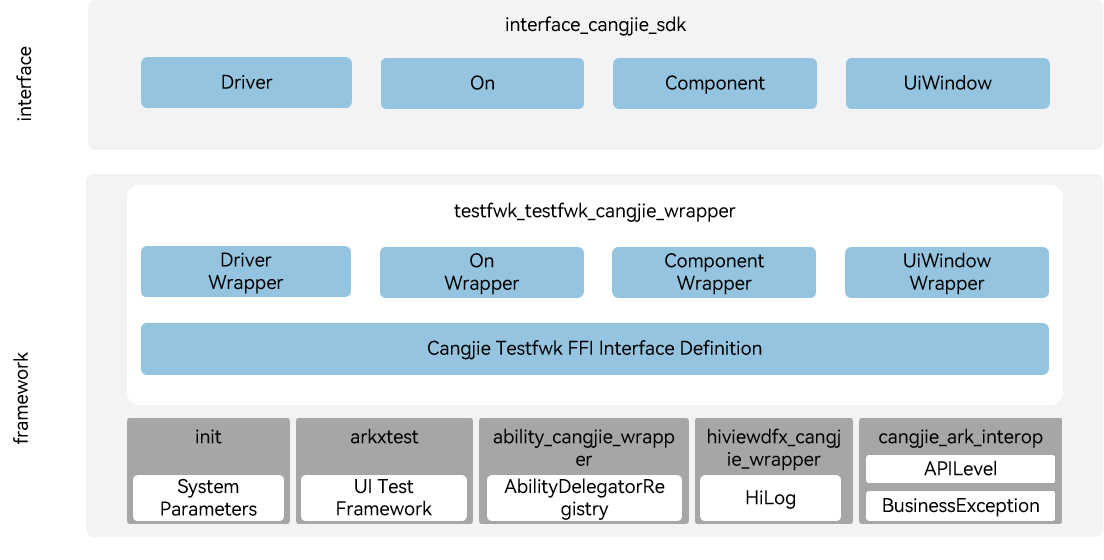
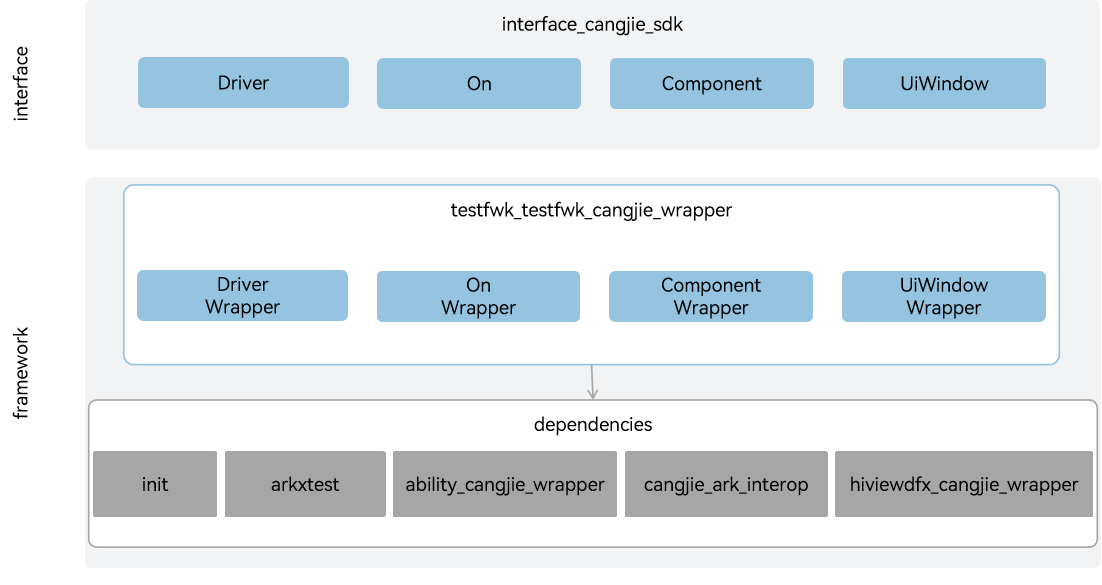
fix readme

diff --git a/README.md b/README.md
@@ -2,7 +2,7 @@
 
 ## Introduction
 
-The testfwk_testfwk_cangjie_wrapper is a Cangjie API encapsulated on OpenHarmony based on the capabilities of the test subsystem. The test subsystem provides developers with a set of automated testing frameworks. The Cangjie test framework API consists of a unit test framework and a UI test framework. The currently open Cangjie test framework API only supports standard devices.
+The testfwk_testfwk_cangjie_wrapper a suite of automated testing solutions tailored for developers engaged in application development with the Cangjie programming language on the OpenHarmony platform. It is primarily composed of two core components: a unit testing framework and a UI testing framework. The currently open testfwk_testfwk_cangjie_wrapper only supports standard devices.
 
 ## System Architecture
 
@@ -10,18 +10,29 @@ The testfwk_testfwk_cangjie_wrapper is a Cangjie API encapsulated on OpenHarmony
 
 ![testfwk_cangjie_wrapper architecture](figures/testfwk_cangjie_wrapper_architecture_en.png)
 
-As shown in the architecture diagram, the Cangjie test framework API provides UI test framework functions:
+As shown in the architecture diagram, the testfwk_testfwk_cangjie_wrapper provides UI test framework functions:
 
-- Driver: The entry point for UI testing, providing capabilities to find components, check component existence, and inject keys.
-- On: Used to describe target component characteristics (text, ID, type, etc.), and Driver finds components based on the component characteristics described by On.
-- Component: The component object returned by Driver search, providing touch and inspection capabilities such as querying component attributes and scrolling search.
-- UiWindow: The window object returned by Driver search, providing capabilities to obtain window attributes and operate windows.
-- Cangjie Testfwk FFI Interface Definition: Responsible for defining C interoperation Cangjie interfaces, used to implement Cangjie test framework capabilities.
-- arkxtest: Responsible for providing UI test basic capabilities, encapsulating C interfaces for interoperation with Cangjie.
-- init: Provides system parameter query capabilities, used to determine whether the current environment supports testing.
-- ability_cangjie_wrapper: Responsible for providing automated test framework management capabilities, used for UI test framework initialization.
-- hiviewdfx_cangjie_wrapper: Provides logging interfaces for printing logs on critical paths.
-- cangjie_ark_interop: Provides Cangjie annotation definitions for API annotation and BusinessException exception class definition for user-facing exceptions.
+Interface Layer:
+
+- Driver: The entry point for UI testing, providing developers with the ability to find controls, check their existence, and inject key presses.
+- On: Provides developers with the ability to describe the characteristics of target controls. Developers can use these descriptions together with Driver to locate controls.
+- Component: Represents a UI control, typically found using `Driver.findComponent(on)`. It offers developers the ability to query control properties, perform swipe-to-find operations, and other touch and inspection capabilities.
+- UiWindow: Represents a UI window, typically found using `Driver.findWindow(WindowFilter)`. It provides developers with the ability to access window properties and manipulate windows.
+
+Framework Layer:
+
+- Driver Wrapper: Based on the underlying arkxtest's UI testing capabilities，Driver Wrapper implements features like finding controls, injecting key presses, clicking coordinates, swiping controls, performing gestures, and taking screenshots.
+- On Wrapper: Based on the underlying arkxtest's UI testing capabilities, On Wrapper implements rich descriptions of target control characteristics (text, id, type, etc.) for matching and finding controls to operate on or inspect.
+- Component Wrapper: Based on the underlying arkxtest's UI testing capabilities, Component Wrapper implements access to control properties, clicking controls, swipe-to-find operations, and text injection.
+- UiWindow Wrapper: Based on the underlying arkxtest's UI testing capabilities, UiWindow implements access to window properties and window manipulation capabilities like dragging and resizing.
+
+Dependency Components Introduction in Architecture:
+
+- arkxtest: Depends on the UI testing capabilities provided by the arkxtest.
+- init: Depends on the system parameter query capabilities to determine if the current environment supports testing.
+- ability_cangjie_wrapper: Depends on the AbilityDelegatorRegistry for initializing the UI testing framework.
+- hiviewdfx_cangjie_wrapper: Depends on HiLog capabilities for printing logs at key points.
+- cangjie_ark_interop: Depends on APILevel class definitions and BusinessException class definitions for API annotation and throwing exceptions to users in error branches.
 
 ## Directory Structure
 
@@ -38,17 +49,19 @@ test/testfwk/testfwk_cangjie_wrapper
 
 ## Usage
 
-The Cangjie test framework API currently provides the following functions:
+The testfwk_testfwk_cangjie_wrapper currently provides the following functions:
 
 - Capabilities for writing test cases, assertions, executing test cases, and generating test reports.
 - Capabilities for locating and operating UI components.
+
+For UI test related APIs, please refer to [ohos.ui_test (UI Testing)](https://gitcode.com/openharmony-sig/arkcompiler_cangjie_ark_interop/blob/master/doc/API_Reference/source_en/apis/TestKit/cj-apis-ui_test.md). For related guidelines, please refer to [Automated Test Framework Usage Guide](https://gitcode.com/openharmony-sig/arkcompiler_cangjie_ark_interop/blob/master/doc/Dev_Guide/source_en/application-test/cj-arkxtest-guidelines.md).
+
+## Constraints
 
 Compared to ArkTs API, there are the following differences:
 
 - The unit test framework is implemented based on the unit test library std.unittest that comes with Cangjie.
 - White-box performance testing framework is not currently supported.
-
-For UI test related APIs, please refer to [ohos.ui_test (UI Testing)](https://gitcode.com/openharmony-sig/arkcompiler_cangjie_ark_interop/blob/master/doc/API_Reference/source_en/apis/TestKit/cj-apis-ui_test.md). For related guidelines, please refer to [Automated Test Framework Usage Guide](https://gitcode.com/openharmony-sig/arkcompiler_cangjie_ark_interop/blob/master/doc/Dev_Guide/source_en/application-test/cj-arkxtest-guidelines.md).
 
 ## Code Contribution
 

diff --git a/README_zh.md b/README_zh.md
@@ -1,8 +1,8 @@
-# 测试框架仓颉接口
+# 测试框架仓颉封装
 
 ## 简介
 
- 测试框架仓颉接口是在OpenHarmony上基于测试子系统能力之上封装的仓颉API。测试子系统是OpenHarmony为开发者提供了一套自动化测试框架，测试框架仓颉接口主要由单元测试框架以及UI测试框架构成。当前开放的测试框架仓颉接口仅支持standard设备。
+测试框架仓颉封装是在OpenHarmony上针对开发者使用仓颉语言进行应用开发时提供的一套自动化测试框架，其主要由单元测试框架以及UI测试框架构成。当前开放的测试框架仓颉封装仅支持standard设备。
 
 ## 系统架构
 
@@ -10,18 +10,26 @@
 
 ![测试框架仓颉架构图](figures/testfwk_cangjie_wrapper_architecture_zh.png)
 
-如架构图所示，测试框架仓颉接口提供了UI测试框架功能：
+如架构图所示，测试框架仓颉封装提供了UI测试框架功能：
 
-- Driver: UI测试的入口，提供查找控件、检查控件存在性以及注入按键能力。
-- On: 用于描述目标控件特征（文本、id、类型等），Driver根据On描述的控件特征来查找控件。
-- Component: Driver查找返回的控件对象，提供查询控件属性，滑动查找等触控和检视能力。
-- UiWindow: Driver查找返回的窗口对象，提供获取窗口属性、操作窗口的能力。
-- 仓颉测试框架FFI接口定义：负责定义C语言互操作仓颉接口，用于实现仓颉测试框架能力。
-- 自动化测试框架：负责提供UI测试基础能力，封装C语言接口提供给仓颉进行互操作。
-- 启动子系统: 提供系统参数查询能力，用于判断当前环境是否支持测试。
-- ability_cangjie_wrapper：负责提供自动化测试框架管理能力，用于UI测试框架的初始化。
-- hiviewdfx_cangjie_wrapper：负责提供日志接口，用于在关键路径打印日志。
-- cangjie_ark_interop：负责提供仓颉注解定义，用于对API进行标注，以及提供抛向用户的BusinessException异常类定义。
+接口层：
+- Driver: UI测试的入口，面向开发者提供查找控件、检查控件存在性以及注入按键的能力。
+- On: 面向开发者提供描述目标控件特征的能力，开发者可以根据On描述的控件特征结合Driver来查找控件。
+- Component: 表示UI界面上的一个控件，一般是通过Driver.findComponent(on)方法查找到的，面向开发者提供查询控件属性，滑动查找等触控和检视能力。
+- UiWindow: 表示UI界面上的一个窗口，一般是通过Driver.findWindow(WindowFilter)方法查找到的，面向开发者提供获取窗口属性、操作窗口的能力。
+
+框架层：
+- Driver功能封装: 基于底层自动化测试框架的UI测试基础能力，实现查找控件，注入按键，单击坐标，滑动控件，手势操作，截图等能力。
+- On功能封装: 基于底层自动化测试框架的UI测试基础能力，实现丰富的目标控件特征描述（文本、id、类型等），用来匹配查找要操作或检视的目标控件。
+- Component功能封装: 基于底层自动化测试框架的UI测试基础能力，实现获取控件属性，单击控件，滑动查找，注入文本等能力。
+- UiWindow功能封装: 基于底层自动化测试框架的UI测试基础能力，实现获取窗口属性，并进行窗口拖动、调整窗口大小等能力。
+
+架构图中依赖部件引入说明：
+- 自动化测试框架：依赖自动化测试框架部件提供的UI测试基础能力，用于框架层能力的实现。
+- 启动子系统: 依赖启动子系统提供的系统参数查询能力，用于判断当前环境是否支持测试。
+- ability_cangjie_wrapper：依赖ability_cangjie_wrapper提供的自动化测试框架管理能力，用于UI测试框架的初始化。
+- hiviewdfx_cangjie_wrapper：依赖hiviewdfx_cangjie_wrapper提供的HiLog日志能力，用于在关键路径打印日志。
+- cangjie_ark_interop：依赖cangjie_ark_interop提供的仓颉注解类定义和BusinessException异常类定义，用于对API进行标注，及在错误分支向用户抛出异常。
 
 ## 目录
 
@@ -38,17 +46,19 @@ test/testfwk/testfwk_cangjie_wrapper
 
 ## 使用说明
 
-当前测试框架仓颉接口提供了以下功能：
+当前测试框架仓颉封装提供了以下功能：
 
 - 编写测试用例、断言、执行测试用例以及生成测试报告的能力。
 - 定位和操作UI组件的能力。
+
+UI测试相关的接口请参见[UI测试API文档](https://gitcode.com/openharmony-sig/arkcompiler_cangjie_ark_interop/blob/master/doc/API_Reference/source_zh_cn/apis/TestKit/cj-apis-ui_test.md)，相关开发指导请参见[自动化测试框架使用指南](https://gitcode.com/openharmony-sig/arkcompiler_cangjie_ark_interop/blob/master/doc/Dev_Guide/source_zh_cn/application-test/cj-arkxtest-guidelines.md)。
+
+## 约束
 
 与ArkTs提供的API能力相比，有以下差异：
 
 - 单元测试框架基于仓颉语言自带的单元测试库std.unittest实现。
 - 暂不支持白盒性能测试框架。
-
-UI测试相关的接口请参见[UI测试API文档](https://gitcode.com/openharmony-sig/arkcompiler_cangjie_ark_interop/blob/master/doc/API_Reference/source_zh_cn/apis/TestKit/cj-apis-ui_test.md)，相关开发指导请参见[自动化测试框架使用指南](https://gitcode.com/openharmony-sig/arkcompiler_cangjie_ark_interop/blob/master/doc/Dev_Guide/source_zh_cn/application-test/cj-arkxtest-guidelines.md)。
 
 ## 参与贡献
 
